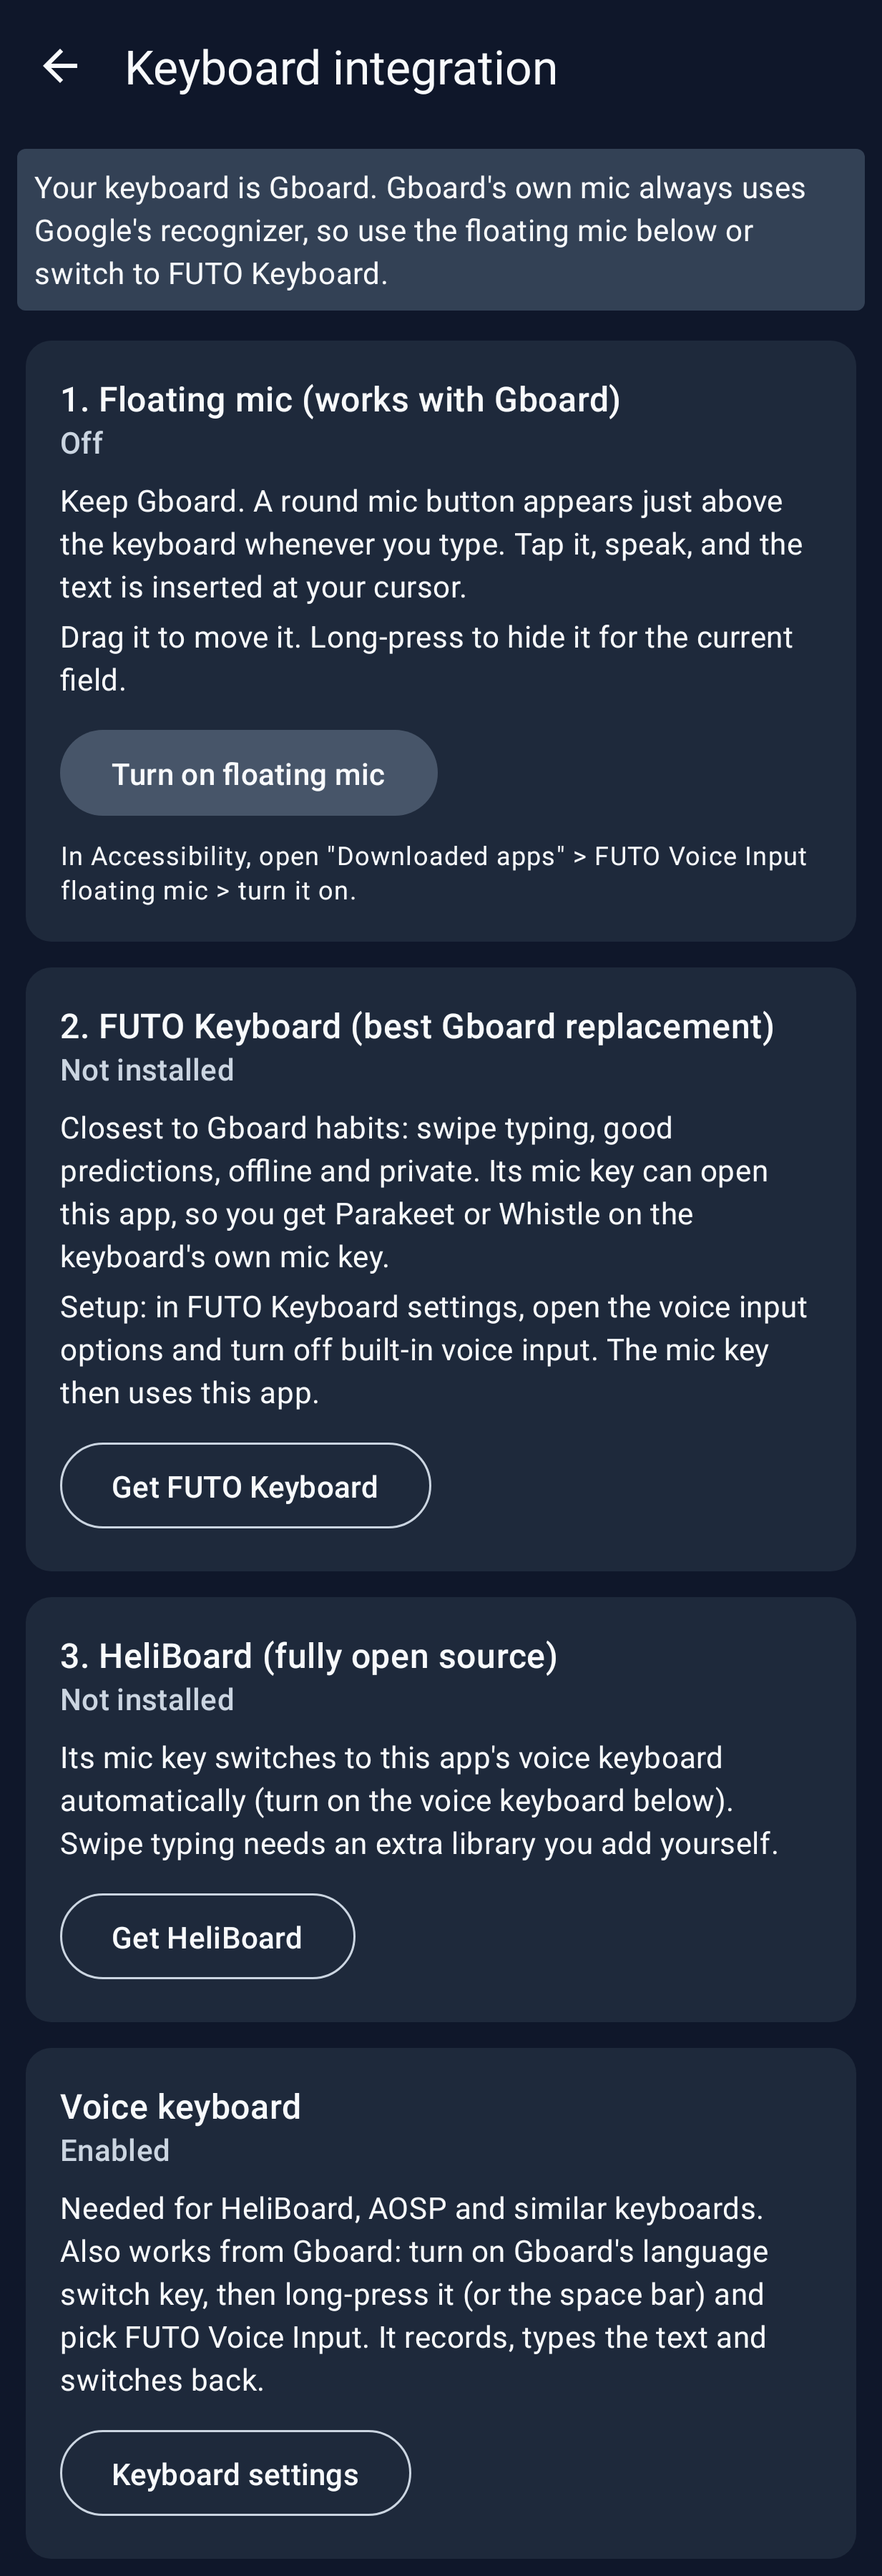
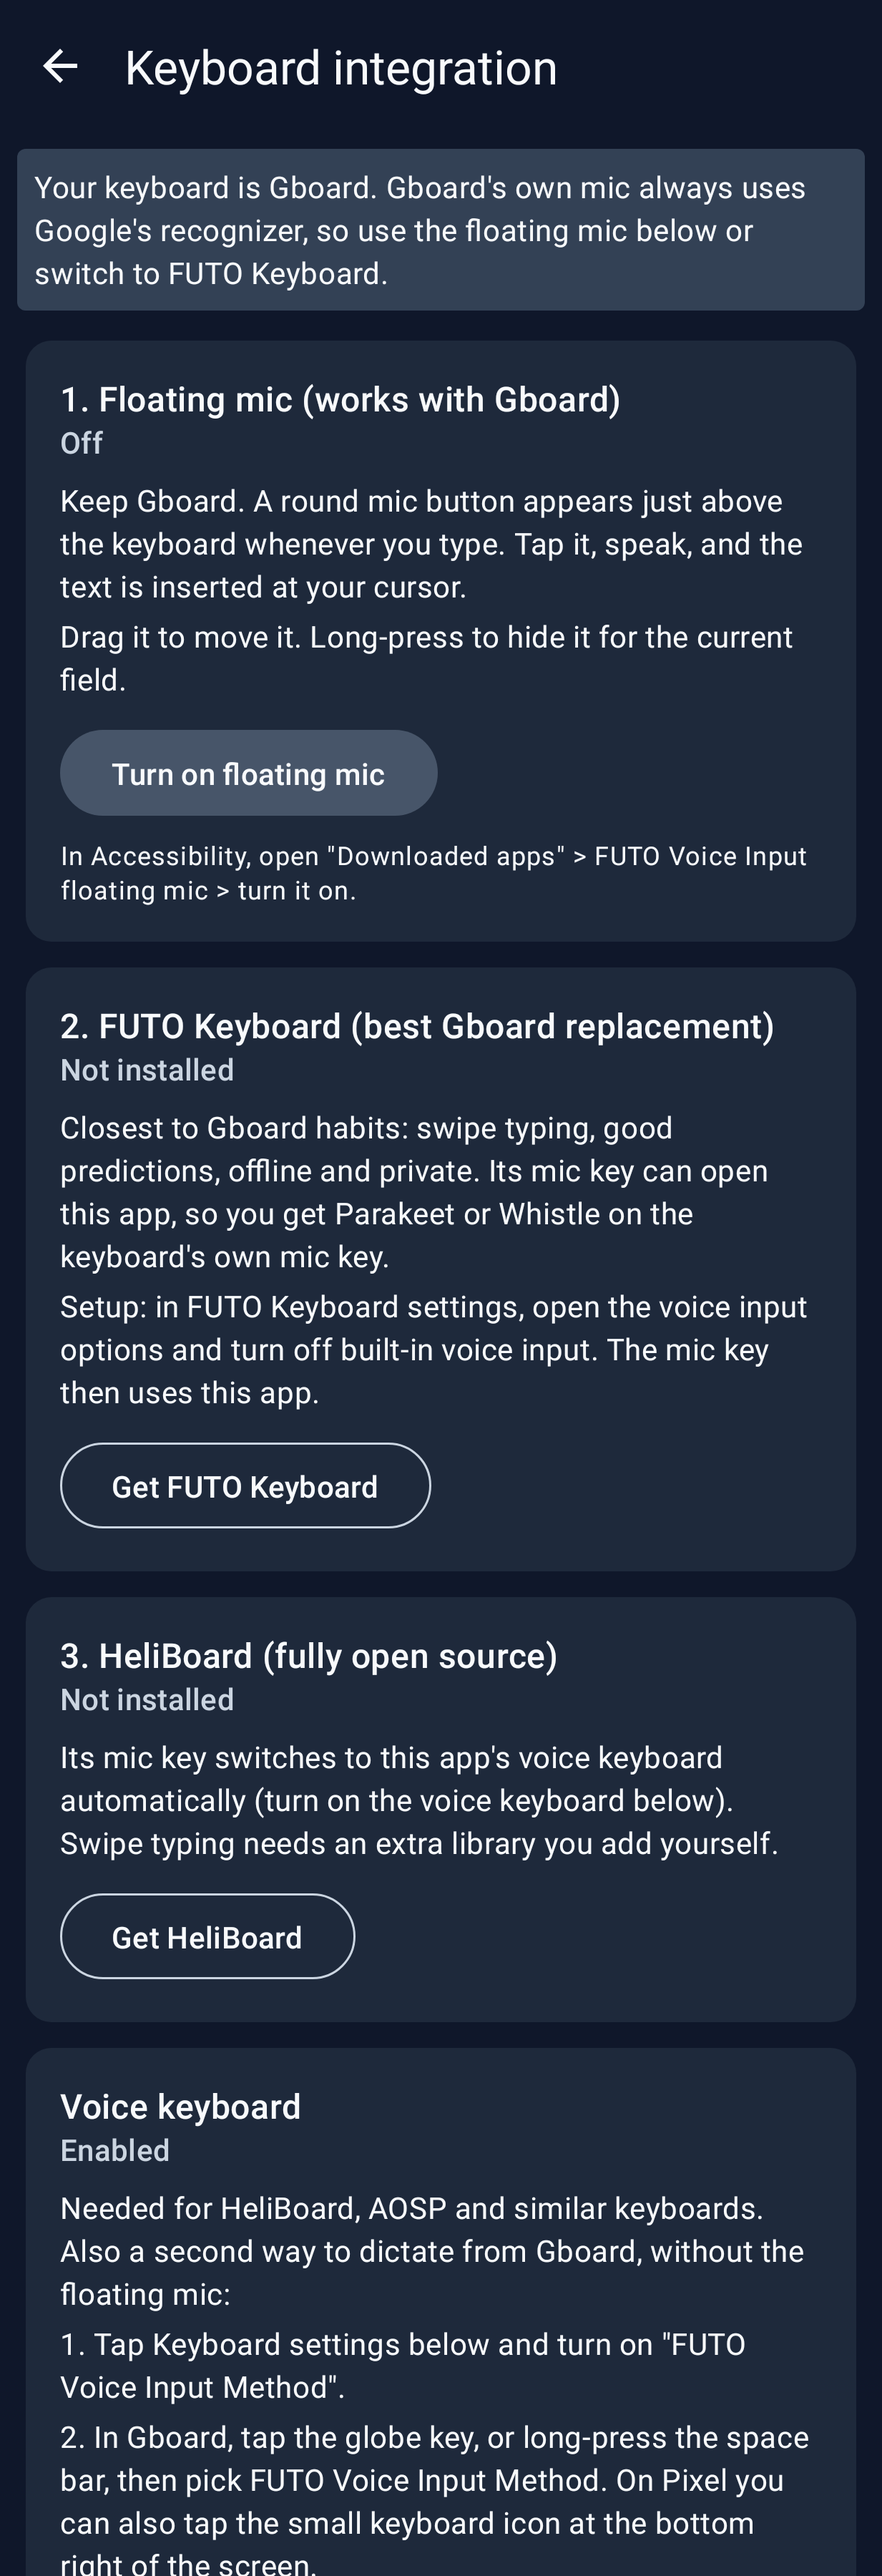
Make the voice keyboard reachable from Gboard's keyboard switcher
The voice subtype was auxiliary, which hides it from Android's keyboard picker,
so Gboard users could never switch to it. The custom flavor overrides
input_method.xml with a non-auxiliary voice subtype. Keyboard integration now
gives step-by-step instructions and explains that Gboard does not list other
apps under Languages.

Claude-Session: https://claude.ai/code/session_01Ch5uM924copGBLcj87H4E1

Changed region(s): [[0.0616, 0.8711, 0.8938, 1.0]]

diff --git a/app/src/main/java/org/futo/voiceinput/settings/pages/Integration.kt b/app/src/main/java/org/futo/voiceinput/settings/pages/Integration.kt
@@ -183,7 +183,11 @@ fun IntegrationScreenContent(
             "Voice keyboard",
             status = if (state.voiceKeyboardEnabled) "Enabled" else "Not enabled"
         ) {
-            Body("Needed for HeliBoard, AOSP and similar keyboards. Also works from Gboard: turn on Gboard's language switch key, then long-press it (or the space bar) and pick FUTO Voice Input. It records, types the text and switches back.")
+            Body("Needed for HeliBoard, AOSP and similar keyboards. Also a second way to dictate from Gboard, without the floating mic:")
+            Body("1. Tap Keyboard settings below and turn on \"FUTO Voice Input Method\".")
+            Body("2. In Gboard, tap the globe key, or long-press the space bar, then pick FUTO Voice Input Method. On Pixel you can also tap the small keyboard icon at the bottom right of the screen.")
+            Body("3. It starts listening right away, types the text, then switches back to Gboard.")
+            Body("Gboard never lists it under Languages: other apps' keyboards are switched to, not added as a language.")
             Spacer(modifier = Modifier.height(8.dp))
             OutlinedButton(colors = outlinedColors(), onClick = onOpenKeyboardSettings) {
                 Text("Keyboard settings")
